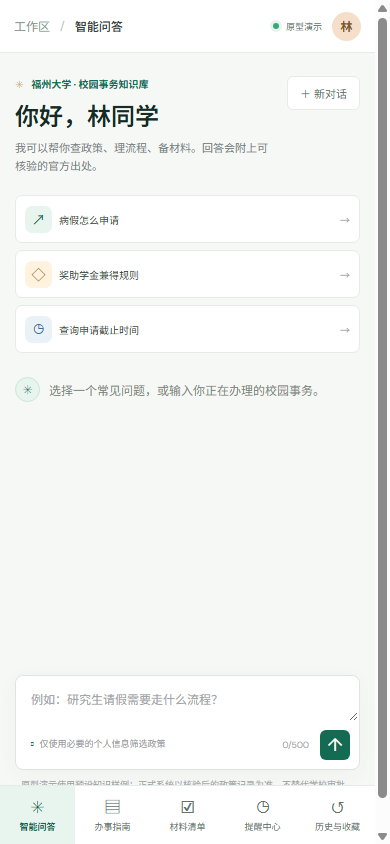
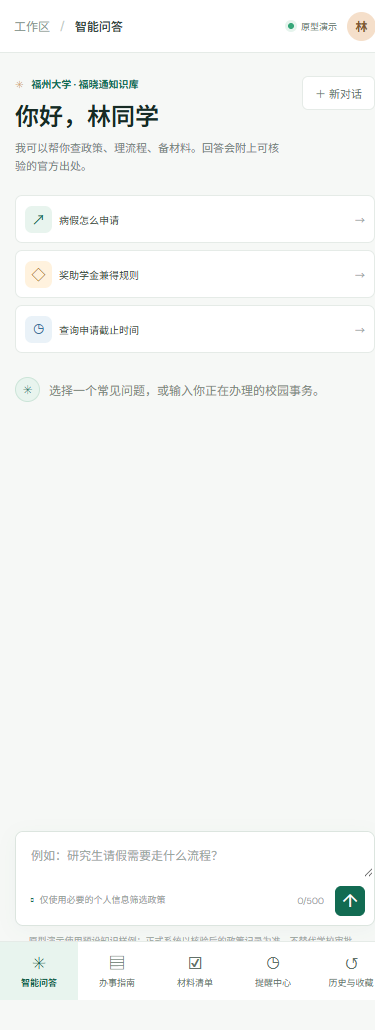
docs: publish Fuxiaotong prototype delivery

diff --git a/system-design.html b/system-design.html
@@ -27,9 +27,9 @@
     hr { border: 0; border-top: 1px solid #dce6df; margin: 18px 0; }
     .cover-note { padding: 12px 14px; border: 1px solid #d5e5da; border-radius: 6px; background: #f2f8f3; }
     footer { margin-top: 22px; padding-top: 8px; border-top: 1px solid #dce6df; text-align: center; color: #91a097; font-size: 8pt; break-inside: avoid; page-break-inside: avoid; }
-    </style></head><body><div class='cover-note'><strong>校园事务智能办事助手（福晓通）</strong><br>奶娃工程 · 概要设计材料 · V1.0 · 2026-11-06<br>正式墨刀链接与成员具体分工仍待团队确认。</div><h1>《奶娃工程_系统设计说明书》</h1>
+    </style></head><body><div class='cover-note'><strong>校园事务智能办事助手（福晓通）</strong><br>奶娃工程 · 概要设计材料 · V1.0 · 2026-11-06<br>正式墨刀只读预览：<a href='https://modao.cc/proto/RXDXHlcLto8ebhZYV3MNe8/sharing?view_mode=read_only&amp;screen=rbpVaTLNX8pb7I5Z5'>https://modao.cc/proto/RXDXHlcLto8ebhZYV3MNe8/sharing?view_mode=read_only&amp;screen=rbpVaTLNX8pb7I5Z5</a><br>成员具体分工仍待团队确认。</div><h1>《奶娃工程_系统设计说明书》</h1>
 <blockquote>
-<p><strong>文档状态：</strong> 团队设计稿 v1.0（待统一封面信息与正式链接）<br>
+<p><strong>文档状态：</strong> 团队设计稿 v1.0（概要设计阶段）<br>
 <strong>项目名称：</strong> 校园事务智能办事助手<br>
 <strong>项目负责人：</strong> 待团队确认<br>
 <strong>团队名称：</strong> 奶娃工程<br>
@@ -408,7 +408,7 @@
 </table>
 <h3>4.3 原型展示</h3>
 <ul>
-<li><strong>正式墨刀在线链接：</strong>待发布（发布后必须用匿名窗口验证可访问）。</li>
+<li><strong>正式墨刀在线链接：</strong><a href="https://modao.cc/proto/RXDXHlcLto8ebhZYV3MNe8/sharing?view_mode=read_only&amp;screen=rbpVaTLNX8pb7I5Z5">只读预览</a>（访问权限：所有人；已用匿名窗口核验）。</li>
 <li><strong>本稿离线补充原型：</strong><code>prototype/index.html</code>，覆盖首页、问答、来源、清单、提醒、画像和管理核验等展示状态。页面使用预设政策样例，并将画像、历史、收藏、清单和提醒保存在当前浏览器 <code>localStorage</code>。</li>
 <li>离线补充页不连接后端、实时政策检索、大模型、学校审批系统、真实通知服务或真实部门渠道；反馈、部门联系、管理发布、新建草稿和导出等入口以演示提示或静态状态呈现，不能报告为已实现的后端功能。</li>
 <li>原型重要特点：证据来源卡片、风险降级状态、用户画像筛选、材料清单和“确认后”副作用操作；这些交互直接对应 Agent 设计，而不是把 Agent 仅作为聊天框装饰。正式系统目标与离线演示能力应在验收记录中分开说明。</li>
@@ -904,7 +904,7 @@
 </tr>
 </tbody>
 </table>
-<p>团队名称已确定为“奶娃工程”，正式 GitHub 仓库地址已确定。仍待确认：成员具体分工、前后端最终技术栈、模型供应商与预算、政策知识核验责任人、提醒渠道、登录方式和正式墨刀链接。</p>
+<p>团队名称已确定为“奶娃工程”，正式 GitHub 仓库和墨刀只读预览地址已确定。仍待确认：成员具体分工、前后端最终技术栈、模型供应商与预算、政策知识核验责任人、提醒渠道和登录方式。</p>
 <h2>附录 A：团队成员登记</h2>
 <table>
 <thead>
@@ -976,6 +976,6 @@
 <li>[x] 与原型、数据库、测试和后续开发的交付接口；</li>
 <li>[x] 团队名称与成员名单；</li>
 <li>[x] 正式 GitHub 仓库；</li>
-<li>[ ] 正式墨刀在线原型链接（待发布）。</li>
+<li>[x] 正式墨刀在线原型链接（匿名窗口访问通过）；</li>
 </ul>
 <footer>系统设计说明书 · 奶娃工程 · 2026-11-06</footer></body></html>

diff --git a/prototype/app.js b/prototype/app.js
@@ -159,7 +159,7 @@ function askQuestion(question) {
   saveState();
   const response = document.createElement('div');
   response.className = 'chat-message assistant';
-  response.innerHTML = `<span class="agent-avatar" aria-hidden="true">✳</span><div class="answer-card"><div class="answer-heading"><strong>办事助手</strong><span class="risk-badge ${answer.warning ? 'warn' : ''}">${answer.badge}</span></div><div class="answer-text">${answer.html}</div>${renderSource(answer.source)}<div class="answer-actions">${answer.actions.map((label) => `<button class="action-button">${escapeHtml(label)}</button>`).join('')}</div><div class="answer-disclaimer">演示回答 · 政策结论以核验后的官方文件为准</div></div>`;
+   response.innerHTML = `<span class="agent-avatar" aria-hidden="true">✳</span><div class="answer-card"><div class="answer-heading"><strong>福晓通办事助手</strong><span class="risk-badge ${answer.warning ? 'warn' : ''}">${answer.badge}</span></div><div class="answer-text">${answer.html}</div>${renderSource(answer.source)}<div class="answer-actions">${answer.actions.map((label) => `<button class="action-button">${escapeHtml(label)}</button>`).join('')}</div><div class="answer-disclaimer">演示回答 · 政策结论以核验后的官方文件为准</div></div>`;
   document.getElementById('chat-stream').append(response);
   response.querySelectorAll('.action-button').forEach((button) => button.addEventListener('click', () => doAction(button.textContent)));
   response.querySelector('.source-detail-button')?.addEventListener('click', () => openSourceModal(answer.source));

diff --git a/prototype/index.html b/prototype/index.html
@@ -4,15 +4,15 @@
   <meta charset="utf-8">
   <meta name="viewport" content="width=device-width, initial-scale=1">
   <meta name="theme-color" content="#126b52">
-  <title>校园事务 · 办事助手原型</title>
+  <title>福晓通 · 校园事务办事助手原型</title>
   <link rel="stylesheet" href="styles.css">
 </head>
 <body>
   <div class="app-shell">
     <aside class="sidebar" aria-label="主导航">
-      <a class="brand" href="#assistant" aria-label="校园事务办事助手首页">
+      <a class="brand" href="#assistant" aria-label="福晓通校园事务办事助手首页">
         <span class="brand-mark" aria-hidden="true">校</span>
-        <span><strong>校园事务</strong><small>办事助手</small></span>
+        <span><strong>福晓通</strong><small>校园事务办事助手</small></span>
       </a>
       <div class="nav-label">工作区</div>
       <nav class="main-nav">
@@ -48,7 +48,7 @@
           <section class="conversation-column">
             <div class="conversation-heading">
               <div>
-                <div class="eyebrow"><span class="spark">✳</span> 福州大学 · 校园事务知识库</div>
+                <div class="eyebrow"><span class="spark">✳</span> 福州大学 · 福晓通知识库</div>
                 <h1>你好，林同学</h1>
                 <p>我可以帮你查政策、理流程、备材料。回答会附上可核验的官方出处。</p>
               </div>

diff --git a/database-design.html b/database-design.html
@@ -27,7 +27,7 @@
     hr { border: 0; border-top: 1px solid #dce6df; margin: 18px 0; }
     .cover-note { padding: 12px 14px; border: 1px solid #d5e5da; border-radius: 6px; background: #f2f8f3; }
     footer { margin-top: 22px; padding-top: 8px; border-top: 1px solid #dce6df; text-align: center; color: #91a097; font-size: 8pt; break-inside: avoid; page-break-inside: avoid; }
-    </style></head><body><div class='cover-note'><strong>校园事务智能办事助手（福晓通）</strong><br>奶娃工程 · 概要设计材料 · V1.0 · 2026-11-06<br>正式墨刀链接与成员具体分工仍待团队确认。</div><h1>《奶娃工程_数据库设计说明书》</h1>
+    </style></head><body><div class='cover-note'><strong>校园事务智能办事助手（福晓通）</strong><br>奶娃工程 · 概要设计材料 · V1.0 · 2026-11-06<br>正式墨刀只读预览：<a href='https://modao.cc/proto/RXDXHlcLto8ebhZYV3MNe8/sharing?view_mode=read_only&amp;screen=rbpVaTLNX8pb7I5Z5'>https://modao.cc/proto/RXDXHlcLto8ebhZYV3MNe8/sharing?view_mode=read_only&amp;screen=rbpVaTLNX8pb7I5Z5</a><br>成员具体分工仍待团队确认。</div><h1>《奶娃工程_数据库设计说明书》</h1>
 <blockquote>
 <p><strong>项目名称：</strong> 校园事务智能办事助手<br>
 <strong>文档版本：</strong> v1.0（概要设计阶段）<br>

diff --git a/scripts/markdown-to-html.py b/scripts/markdown-to-html.py
@@ -108,7 +108,8 @@ def render(md_path: Path, output_path: Path, title: str) -> None:
     .cover-note { padding: 12px 14px; border: 1px solid #d5e5da; border-radius: 6px; background: #f2f8f3; }
     footer { margin-top: 22px; padding-top: 8px; border-top: 1px solid #dce6df; text-align: center; color: #91a097; font-size: 8pt; break-inside: avoid; page-break-inside: avoid; }
     """
-    document = f"""<!doctype html><html lang='zh-CN'><head><meta charset='utf-8'><title>{html.escape(title)}</title><style>{css}</style></head><body><div class='cover-note'><strong>校园事务智能办事助手（福晓通）</strong><br>奶娃工程 · 概要设计材料 · V1.0 · 2026-11-06<br>正式墨刀链接与成员具体分工仍待团队确认。</div>{rendered}<footer>{html.escape(title)} · 奶娃工程 · 2026-11-06</footer></body></html>"""
+    modao_url = "https://modao.cc/proto/RXDXHlcLto8ebhZYV3MNe8/sharing?view_mode=read_only&screen=rbpVaTLNX8pb7I5Z5"
+    document = f"""<!doctype html><html lang='zh-CN'><head><meta charset='utf-8'><title>{html.escape(title)}</title><style>{css}</style></head><body><div class='cover-note'><strong>校园事务智能办事助手（福晓通）</strong><br>奶娃工程 · 概要设计材料 · V1.0 · 2026-11-06<br>正式墨刀只读预览：<a href='{html.escape(modao_url)}'>{html.escape(modao_url)}</a><br>成员具体分工仍待团队确认。</div>{rendered}<footer>{html.escape(title)} · 奶娃工程 · 2026-11-06</footer></body></html>"""
     output_path.write_text(document, encoding="utf-8")
 
 

diff --git a/README.md b/README.md
@@ -1,52 +1,74 @@
-# 奶娃工程｜校园事务智能办事助手（福晓通）交付包
+# 福晓通
 
-本目录是奶娃工程“校园事务智能办事助手（福晓通）”第二次团队作业交付包，共 9 名成员；设计基线为《04_Agent 与系统架构最终稿（V1.0）》。项目面向福州大学在校学生，首期聚焦请假/销假、国家奖学金、优秀学生综合奖学金三类事务。
+> 面向福州大学学生的校园事务智能办事助手
 
-## 交付物
+[在线体验](https://modao.cc/proto/RXDXHlcLto8ebhZYV3MNe8/sharing?view_mode=read_only&screen=rbpVaTLNX8pb7I5Z5) · [系统设计说明书](docs/奶娃工程_系统设计说明书.pdf) · [数据库设计说明书](docs/奶娃工程_数据库设计说明书.pdf)
 
-| 文件 | 用途 |
+![福晓通桌面端界面](evidence/viewport-1440.png)
+
+## 项目简介
+
+校园事务信息分散在学校官网、学院通知和不同业务入口中。福晓通将政策查询、流程指引、材料准备和时间提醒整合到一个工作台，让学生能更快找到适用规则，并获得清晰、可执行的下一步建议。
+
+首期聚焦三类高频事务：
+
+- 请假与销假
+- 国家奖学金
+- 优秀学生综合奖学金
+
+## 核心功能
+
+- **智能问答**：围绕具体校园事务给出分步骤办理建议。
+- **政策溯源**：回答展示政策来源、发布部门和核验状态。
+- **办事指南**：按事务类型浏览、筛选和搜索政策。
+- **材料清单**：将办理要求整理为可勾选的准备清单。
+- **提醒中心**：记录需要关注的截止时间和后续动作。
+- **历史与收藏**：保存问答记录及常用政策。
+- **个性化画像**：结合培养层次、年级和校区展示更匹配的信息。
+- **政策管理**：展示政策版本、核验状态和更新入口。
+
+## 产品方案
+
+福晓通采用“结构化政策知识库 + 单事务 Agent + 受控工具 + 证据门禁”的方案。系统先识别用户要办理的事务，再检索适用政策、检查证据状态并生成结构化回答；当政策缺失、过期或仍待核验时，不输出确定性结论，而是提示用户查看官方通知或联系对应部门。
+
+当前仓库提供可交互原型和概要设计材料。原型用于展示产品流程与界面，不接入学校审批系统或真实通知渠道；具体政策以学校最新官方文件为准。
+
+## 在线体验
+
+- **墨刀原型**：<https://modao.cc/proto/RXDXHlcLto8ebhZYV3MNe8/sharing?view_mode=read_only&screen=rbpVaTLNX8pb7I5Z5>
+- **本地原型**：打开 `prototype/index.html`，或在仓库目录运行：
+
+  ```bash
+  python -m http.server 8000 -d prototype
+  ```
+
+  然后访问 <http://localhost:8000>。
+
+## 设计文档
+
+| 文档 | 内容 |
 |---|---|
-| `system-design.md` | 《奶娃工程_系统设计说明书》源稿，含概要设计、Agent 设计、UML 设计、接口、部署、安全与验收方案 |
-| `database-design.md` | 《奶娃工程_数据库设计说明书》源稿，含概念结构、关系模型、数据字典、索引、权限、备份与 ORM 映射 |
-| `blog-post.md` | 团队博客园文章草稿 |
-| `prototype/index.html` | 可本地点击的离线补充原型；使用预设政策样例和浏览器 `localStorage` 演示问答、来源、清单、提醒、画像和管理端状态，不是后端实现或正式政策服务 |
-| `diagrams/*.svg` | 可插入博客/PDF 的 16 张高清图示（系统 10 张、数据库 6 张） |
-| `scripts/make-diagrams.py` | 从 Markdown Mermaid 源稿生成 16 张一致的 SVG 图示 |
-| `docs/*.pdf` | 以 2026-11-06 提供的最新 8 页版本为内容基线的正式提交 PDF |
-| `scripts/build-pdf.ps1` | 从可编辑 Markdown 生成图示、HTML 和扩展版 PDF（不覆盖 `docs/` 中的 8 页正式版本） |
+| [系统设计说明书](docs/奶娃工程_系统设计说明书.pdf) | 系统架构、Agent 流程、接口、部署、安全及 UML 设计 |
+| [数据库设计说明书](docs/奶娃工程_数据库设计说明书.pdf) | ER 模型、关系模型、ORM 映射、索引、权限及 Agent 数据边界 |
+| [团队博客稿](blog-post.md) | 项目原型设计与概要设计说明 |
+| [`diagrams/`](diagrams/) | 用例图、活动图、类图、时序图、协作图及数据库图示 |
 
-## 使用方式
+## 目录结构
 
-1. 团队名称已统一为“奶娃工程”；正式墨刀预览链接仍需在项目公开后补入 `blog-post.md` 和提交说明。
-2. 用浏览器打开 `prototype/index.html` 检查离线补充原型；正式提交必须以团队在墨刀发布并核验可访问的在线原型为准。离线页不连接后端、实时政策检索、大模型、学校审批系统或真实通知/部门渠道。
-3. 确认已安装 Python 3.10+、Node.js 20+（含 `npx`）以及 Microsoft Edge 或 Google Chrome，然后在 PowerShell 中执行：
+```text
+.
+├─ prototype/           # 可交互前端原型
+├─ docs/                # 正式设计说明书 PDF
+├─ diagrams/            # UML 与数据库图示
+├─ evidence/            # 原型与文档验证记录
+├─ scripts/             # 图示和文档构建脚本
+├─ system-design.md     # 系统设计源稿
+├─ database-design.md   # 数据库设计源稿
+└─ blog-post.md         # 团队博客稿
+```
 
-   ```powershell
-   .\scripts\build-pdf.ps1 -TeamName '奶娃工程'
-   ```
+## 团队
 
-   脚本固定使用 Mermaid CLI 11.12.0 从 Markdown 源稿重建图示，把两个 Markdown 源稿转换为带图示的 HTML，再调用 Edge/Chrome 打印成扩展版 PDF。`docs/` 中用于本次提交的 8 页正式版本由 `scripts/prepare-submission.py` 基于最新附件生成，不会被此命令覆盖。
+**奶娃工程**
 
-4. 将生成的 PDF、源稿、原型链接说明和图示提交到团队 GitHub 仓库。
-
-## 本地验证证据
-
-最近一次本地验证使用合成浏览器数据，并在测试结束后恢复原有 `localStorage`：
-
-- 六个视口（`320、390、760、768、1024、1440px`）检查布局和元素越界；
-- 11 项交互冒烟覆盖导航、政策筛选/搜索、收藏、问答来源、材料清单、提醒确认与取消、画像、管理端提示、刷新持久化和空问题边界；
-- 检查控制台事件、运行时异常和错误日志均为空。
-
-可复核报告与联系表位于 `evidence/`。这些报告只证明离线补充原型和本地文档构建结果，不替代正式 Axure/墨刀原型、真实政策核验或后端验收。
-
-## 需要团队确认的事实
-
-- 团队名称：奶娃工程；
-- 全体成员：见 `team-roster.md`；
-- 全体成员的博客地址和具体角色（学号-姓名名单已登记）；
-- 正式 GitHub 团队仓库地址：https://github.com/trony33/fuxiaotong-campus-affairs；
-- 墨刀可公开访问的原型链接：待发布；
-- 前端采用 Vue 还是 React，后端采用 Spring Boot 还是 FastAPI；
-- 最终政策清单和每条政策的核验责任人。
-
-文档中的架构、接口和数据模型遵循“结构化政策知识库 + 单事务 Agent + 受控工具 + 前后端分离模块化单体”的首期方案；未确认的技术选型不应在实现阶段被误读为既定事实。
+052403146-蔡明润、102401603-张馨恬、102401606-黄丽婷、102401416-唐捷、102401605-王乐禾、102401502-王钰涵、152402217-陈霁然、102401403-潘岳、102401601-李佳雨。

diff --git a/evidence/README.md b/evidence/README.md
@@ -1,13 +1,14 @@
-# 本地验证证据
+# 验证证据
 
-本目录保存离线补充原型与正式 PDF 的本地可复核证据。原型验证于 2026-11-03 完成，使用合成浏览器数据；测试结束后恢复了测试前的 `localStorage`，不会把测试记录留在用户浏览器中。两份 8 页正式 PDF 于 2026-11-09 完成最终文本与视觉复核。
+本目录保存离线补充原型、墨刀公开预览与正式 PDF 的可复核证据。原型验证于 2026-11-09 完成，使用隔离浏览器和合成数据；测试会话结束后即销毁，不会把测试记录留在用户浏览器中。两份 8 页正式 PDF 于同日完成最终文本与视觉复核。
 
 ## 文件
 
-- `prototype-smoke-report.json`：11 项交互冒烟结果；全部 `PASS`，控制台事件、运行时异常和错误日志均为空。
+- `prototype-smoke-report.json`：12 项交互冒烟结果；全部 `PASS`，控制台事件、运行时异常和错误日志均为空。
 - `viewport-report.json`：`320、390、760、768、1024、1440px` 六个视口的布局数据、元素越界检查和文档横向滚动检查。
 - `viewport-390.png`、`viewport-1440.png`：强制清缓存刷新后生成的移动端和桌面端截图。
 - `final-pdf-review-report.json`：两份正式 PDF 的页数、文件大小、团队名与占位符检查结果。
+- `modao-anonymous-smoke-report.json`：公开墨刀只读预览的匿名访问、品牌、政策筛选和问答核验记录，4 项全部 `PASS`。
 - `final-system-pdf-contact.png`、`final-database-pdf-contact.png`：两份 8 页正式 PDF 的逐页联系表。
 - 旧的 `pdf-review-report.json`、`system-pdf-contact.png`、`database-pdf-contact.png` 对应早期 18/12 页扩展构建，已被正式 8 页版本取代，不纳入 GitHub 提交。
 
@@ -17,7 +18,8 @@
 - 响应式布局：六个视口的元素越界数组为空，且 `documentElement.clientWidth === scrollWidth`；`320px` 下实际 `scrollLeft` 为 0，`768px` 保持 200px 侧栏、隐藏画像栏和单列问答布局。
 - 图示构建：16 张 Mermaid SVG 成功生成并通过 XML 校验。
 - 正式 PDF：系统设计与数据库设计均为 8 页；文本层中“待填写”残留为 0，团队名可检索；逐页联系表未见裁切、重叠或空白页。
+- 正式墨刀预览：公开链接在隔离匿名会话中未跳转登录，在线组件显示“福晓通”；政策目录、奖学金筛选、请假问答、来源和材料清单入口均可用。
 
 ## 范围与限制
 
-这些证据只覆盖本地 Markdown→SVG→HTML 构建、正式 PDF 文本/视觉检查和 `prototype/index.html` 离线补充原型。它们不证明正式墨刀链接、后端接口、实时政策检索、学校审批系统、真实通知服务或未经团队核验的政策事实已经可用。
+这些证据不证明后端接口、实时政策检索、学校审批系统、真实通知服务或未经团队核验的政策事实已经可用；墨刀证据只证明公开原型页面和演示交互可访问。

diff --git a/system-design.md b/system-design.md
@@ -1,6 +1,6 @@
 # 《奶娃工程_系统设计说明书》
 
-> **文档状态：** 团队设计稿 v1.0（待统一封面信息与正式链接）<br>
+> **文档状态：** 团队设计稿 v1.0（概要设计阶段）<br>
 > **项目名称：** 校园事务智能办事助手<br>
 > **项目负责人：** 待团队确认<br>
 > **团队名称：** 奶娃工程<br>
@@ -283,7 +283,7 @@ flowchart TD
 
 ### 4.3 原型展示
 
-- <strong>正式墨刀在线链接：</strong>待发布（发布后必须用匿名窗口验证可访问）。
+- <strong>正式墨刀在线链接：</strong><a href="https://modao.cc/proto/RXDXHlcLto8ebhZYV3MNe8/sharing?view_mode=read_only&amp;screen=rbpVaTLNX8pb7I5Z5">只读预览</a>（访问权限：所有人；已用匿名窗口核验）。
 - **本稿离线补充原型：**`prototype/index.html`，覆盖首页、问答、来源、清单、提醒、画像和管理核验等展示状态。页面使用预设政策样例，并将画像、历史、收藏、清单和提醒保存在当前浏览器 `localStorage`。
 - 离线补充页不连接后端、实时政策检索、大模型、学校审批系统、真实通知服务或真实部门渠道；反馈、部门联系、管理发布、新建草稿和导出等入口以演示提示或静态状态呈现，不能报告为已实现的后端功能。
 - 原型重要特点：证据来源卡片、风险降级状态、用户画像筛选、材料清单和“确认后”副作用操作；这些交互直接对应 Agent 设计，而不是把 Agent 仅作为聊天框装饰。正式系统目标与离线演示能力应在验收记录中分开说明。
@@ -696,7 +696,7 @@ flowchart LR
 | 技术栈分歧 | 进度失控 | 前后端各选一套，保持 API/数据模型稳定 |
 | 团队元数据缺失 | 提交不规范 | 提交前统一核对名称、成员、仓库、原型链接 |
 
-团队名称已确定为“奶娃工程”，正式 GitHub 仓库地址已确定。仍待确认：成员具体分工、前后端最终技术栈、模型供应商与预算、政策知识核验责任人、提醒渠道、登录方式和正式墨刀链接。
+团队名称已确定为“奶娃工程”，正式 GitHub 仓库和墨刀只读预览地址已确定。仍待确认：成员具体分工、前后端最终技术栈、模型供应商与预算、政策知识核验责任人、提醒渠道和登录方式。
 
 ## 附录 A：团队成员登记
 
@@ -725,4 +725,4 @@ flowchart LR
 - [x] 与原型、数据库、测试和后续开发的交付接口；
 - [x] 团队名称与成员名单；
 - [x] 正式 GitHub 仓库；
-- [ ] 正式墨刀在线原型链接（待发布）。
+- [x] 正式墨刀在线原型链接（匿名窗口访问通过）；

diff --git a/SUBMISSION-CHECKLIST.md b/SUBMISSION-CHECKLIST.md
@@ -5,8 +5,8 @@
 - [x] GitHub 公开仓库：https://github.com/trony33/fuxiaotong-campus-affairs
 - [x] 系统设计说明书与数据库设计说明书已放入 `docs/`
 - [x] UML 静态图示与离线补充原型已放入仓库
-- [ ] 墨刀正式项目创建完成，并取得可编辑/可预览链接
-- [ ] 墨刀链接在匿名窗口访问通过
+- [x] 墨刀正式项目创建完成，并取得可编辑/可预览链接（只读预览：https://modao.cc/proto/RXDXHlcLto8ebhZYV3MNe8/sharing?view_mode=read_only&screen=rbpVaTLNX8pb7I5Z5）
+- [x] 墨刀链接在匿名窗口访问通过
 - [ ] 博客园发布标题：`2026秋软工实践 奶娃工程——项目原型设计+概要设计`
-- [ ] 博客正文补入真实墨刀链接并发布
+- [x] 博客正文已补入真实墨刀链接；博客园发布仍待团队账号完成
 - [ ] 最终提交平台提交 GitHub、墨刀、博客及两份 PDF 链接
